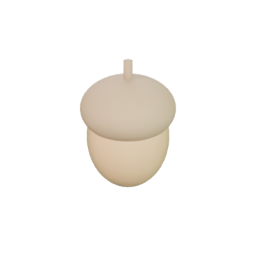
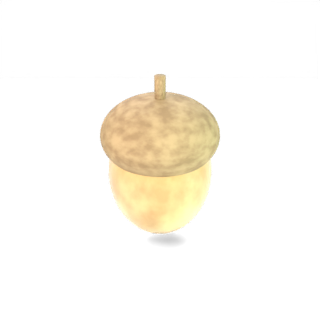
Shop models: lower exposure, detailed re-render in progress
Claude-Session: https://claude.ai/code/session_01HSmZZYHSTtHRB5r46UiysB

Changed region(s): [[0.3125, 0.2188, 0.6875, 0.7812]]

diff --git a/tools/blender/shop_models.py b/tools/blender/shop_models.py
@@ -20,7 +20,7 @@ OUT = os.path.join(ROOT, "public", "shop-models")
 FRAMES = os.environ.get("SHOP_FRAMES_DIR", "/tmp/shop-frames")
 N = 24  # snímků ve smyčce
 SIZE = int(os.environ.get("SHOP_SIZE", "320"))
-SAMPLES = int(os.environ.get("SHOP_SAMPLES", "64"))
+SAMPLES = int(os.environ.get("SHOP_SAMPLES", "32"))
 MINZ = [-1.0]
 
 
@@ -346,7 +346,7 @@ def m_moon_dust():
 def m_meteorite():
     rock = mat("meteor", (0.05, 0.045, 0.045), metal=0.5, rough=0.55, tint2=(0.2, 0.17, 0.15), tscale=8, rvar=0.3, bump=1.4, noise=25, crack=(1.0, 0.3, 0.04), crack_scale=3.0, emit_strength=7.0)
     displaced(0.75, (0, 0, 0), rock, strength=0.28, scale=1.1, seed=3, flat=(1.1, 0.9, 0.85))
-    glow = mat("glow", (1, 0.3, 0.05), emit=(1, 0.35, 0.05), emit_strength=6.0)
+    glow = mat("glow", (1, 0.3, 0.05), emit=(1, 0.3, 0.04), emit_strength=2.0)
     for k in range(5):
         a = k * 1.1 + 0.3
         sphere(0.09, (0.8 * math.cos(a) * 0.95, -0.55 - 0.1 * k % 0.2, 0.55 * math.sin(a * 1.7)), scale=(1.2, 0.6, 0.8), m=glow, seg=16)
@@ -845,7 +845,7 @@ def setup_render():
     sc.render.image_settings.file_format = "PNG"
     sc.render.image_settings.color_mode = "RGBA"
     sc.view_settings.view_transform = "Standard"
-    sc.view_settings.exposure = -0.6
+    sc.view_settings.exposure = -1.2
     w = bpy.data.worlds.new("w")
     sc.world = w
     w.use_nodes = True
